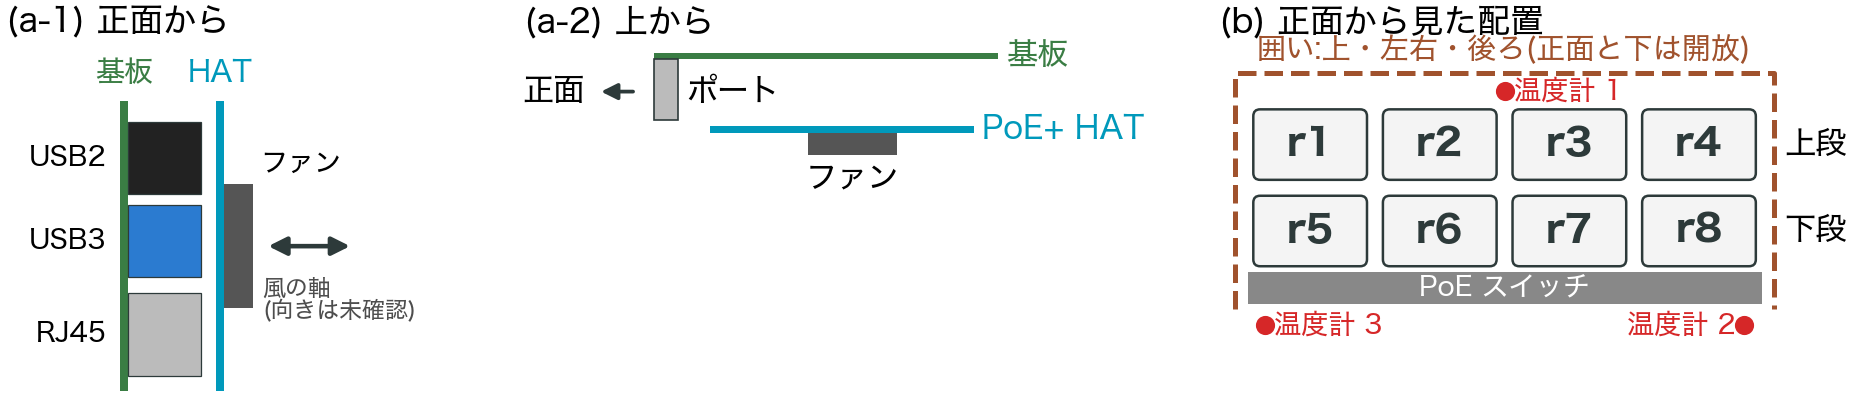
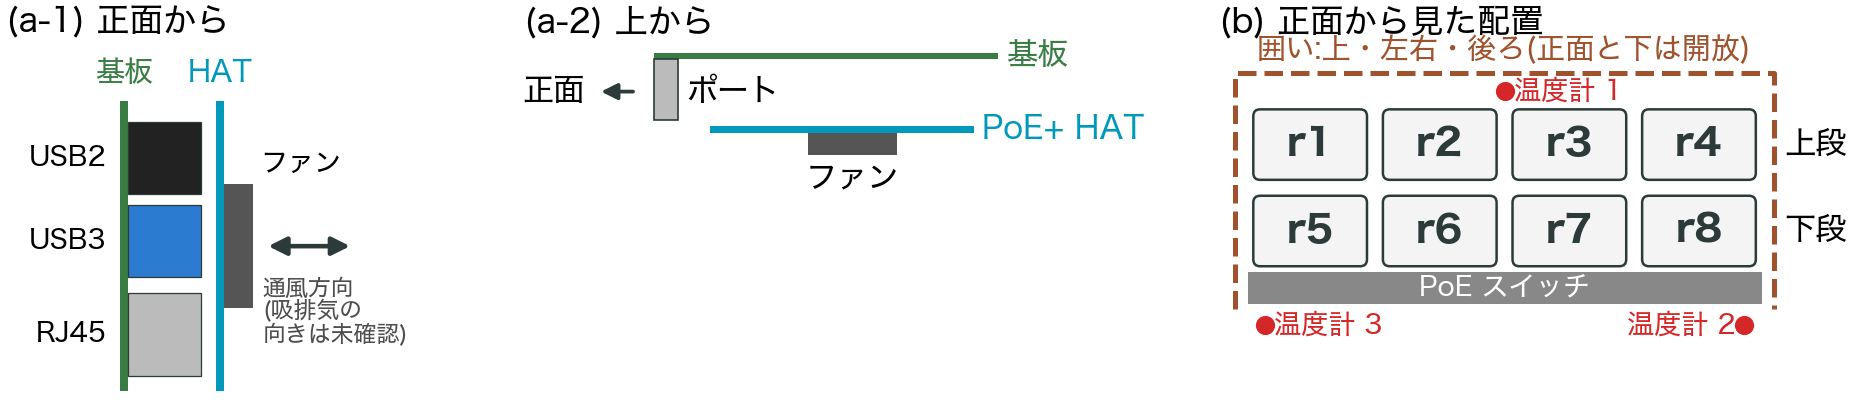
配置図のファンのラベルを「通風方向(吸排気の向きは未確認)」に

Changed region(s): [[0.1231, 0.6531, 0.2462, 0.8397]]

diff --git a/scripts/fig_rack_layout.py b/scripts/fig_rack_layout.py
@@ -27,7 +27,7 @@ def draw_front(cx):
     cx.text(27, 44, "ファン", ha="left", va="center", fontsize=6.5)
     # 風の軸:ファンは HAT の板に平行なので、風は HAT に垂直(正面から見て左右)。吸い込みか吹き出しかは未確認なので両向き
     cx.add_patch(FancyArrowPatch((27, 28), (46, 28), arrowstyle="<|-|>", mutation_scale=9, color=INK, lw=1.1))
-    cx.text(27.5, 22, "風の軸\n(向きは未確認)", ha="left", va="top", fontsize=5.5, color="0.3", linespacing=1.0)
+    cx.text(27.5, 22, "通風方向\n(吸排気の\n向きは未確認)", ha="left", va="top", fontsize=5.5, color="0.3", linespacing=1.0)
     cx.set_xlim(-22, 58)
     cx.set_ylim(-4, 68)
     cx.set_aspect("equal")
